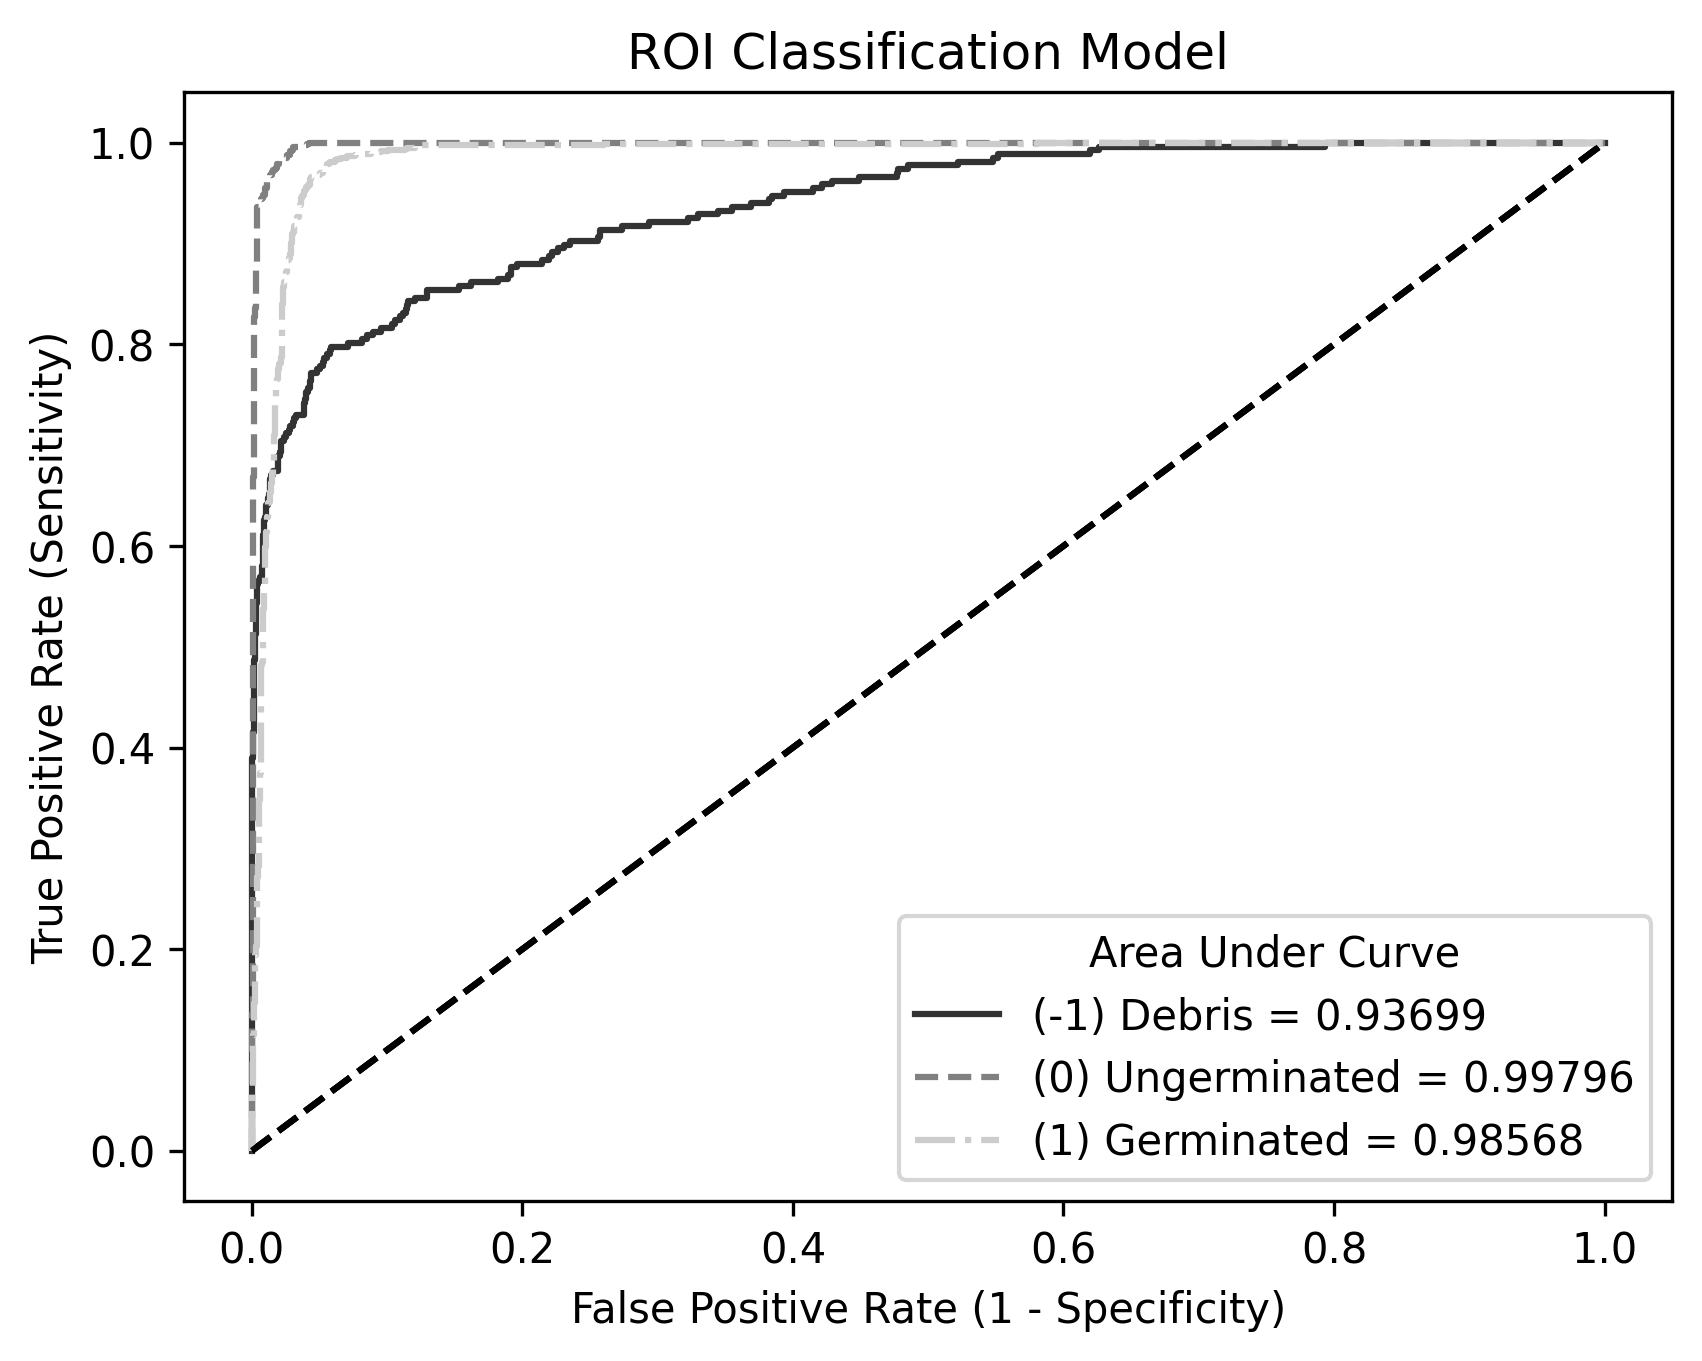
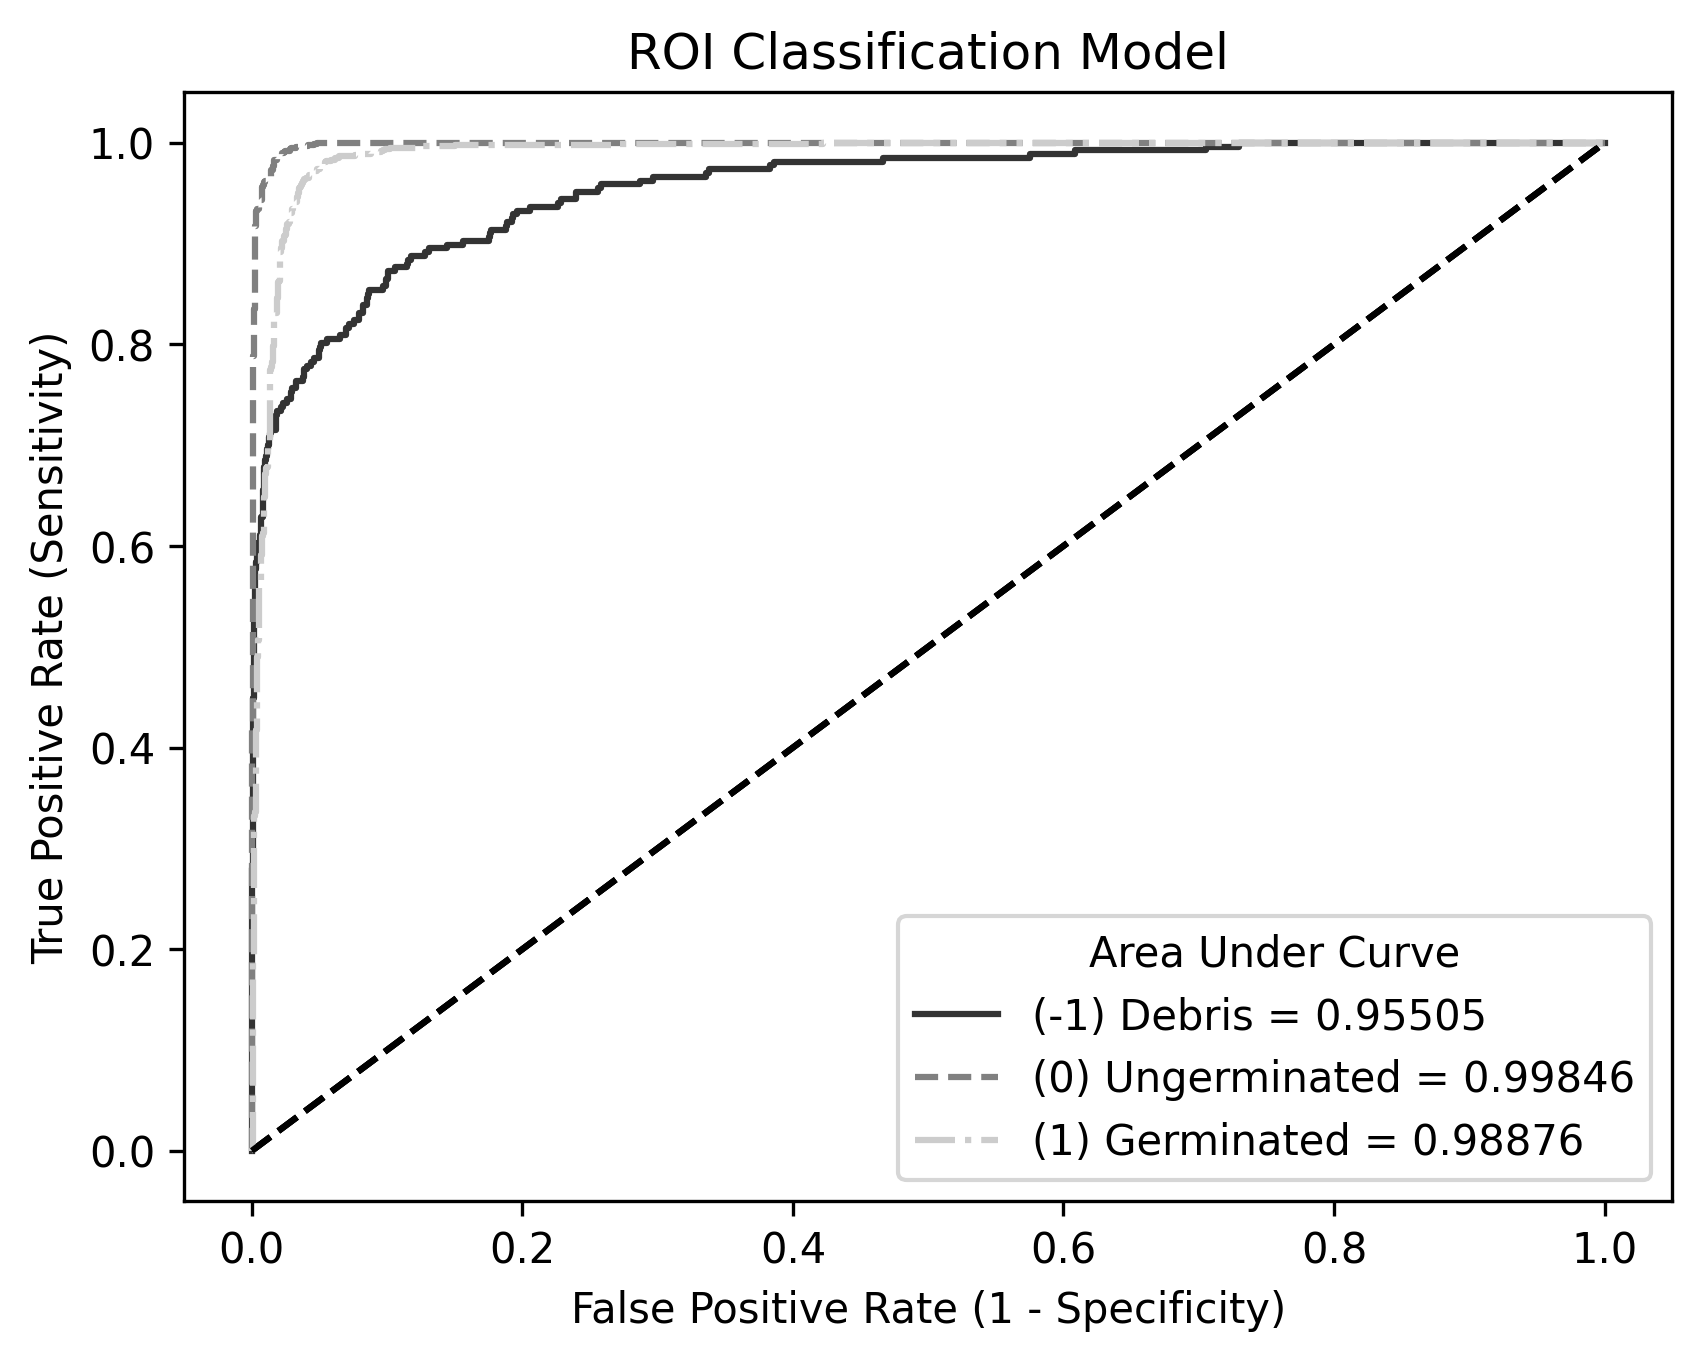
model: select 8 features for classification
- bump from 5 features (auto selection)
- add "ID" header so that column can be explicitly excluded from the modeling
- update ROC Curve image showing improved metrics

diff --git a/analyze_results.py b/analyze_results.py
@@ -37,10 +37,13 @@ def setup_regression():
     dataset = pandas.read_csv("models/model_training_data.csv")
     vals = [
         "Area",
+        "Perim.",
         "Major",
         "Minor",
         "Circ.",
+        "Feret",
         "AR",
+        "Round",
     ]
     _x = dataset[vals]
     _y = dataset["class"]
@@ -59,10 +62,13 @@ def identify_roi(row, model):
         [
             [
                 int(row["Area"]),
+                float(row["Perim."]),
                 float(row["Major"]),
                 float(row["Minor"]),
                 float(row["Circ."]),
+                float(row["Feret"]),
                 float(row["AR"]),
+                float(row["Round"]),
             ]
         ]
     )

diff --git a/models/select_features.py b/models/select_features.py
@@ -30,11 +30,11 @@ from sklearn.linear_model import LogisticRegression
 
 def select_features(file):
     df = pd.read_csv(file)
-    X = df.drop(columns=["X", "Y", "Angle", "FeretX", "FeretY", "FeretAngle", "class"])
+    X = df.drop(columns=["ID", "X", "Y", "Angle", "FeretX", "FeretY", "FeretAngle", "class"])
     y = df["class"]
     model = LogisticRegression(solver="newton-cg", max_iter=1000)
     sfs = SequentialFeatureSelector(
-        model, n_features_to_select="auto", direction="forward", n_jobs=-1
+        model, n_features_to_select=8, direction="forward", n_jobs=-1
     )
     sfs.fit(X, y)
     print(f"Selected features: {', '.join(X.columns[sfs.get_support()])}")

diff --git a/models/eval_model.py b/models/eval_model.py
@@ -53,7 +53,7 @@ def preprocess_data(df, target_column):
     test_size = 0.3
     random_state = 42
     X = df.drop(
-        columns=["X", "Y", "Angle", "FeretX", "FeretY", "FeretAngle", target_column]
+        columns=["ID", "X", "Y", "Angle", "FeretX", "FeretY", "FeretAngle", target_column]
     )
     y = df[target_column]
 
